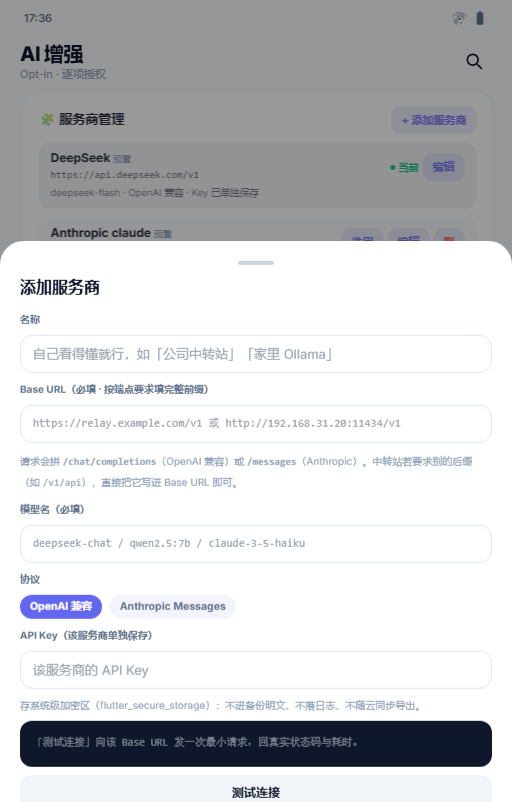
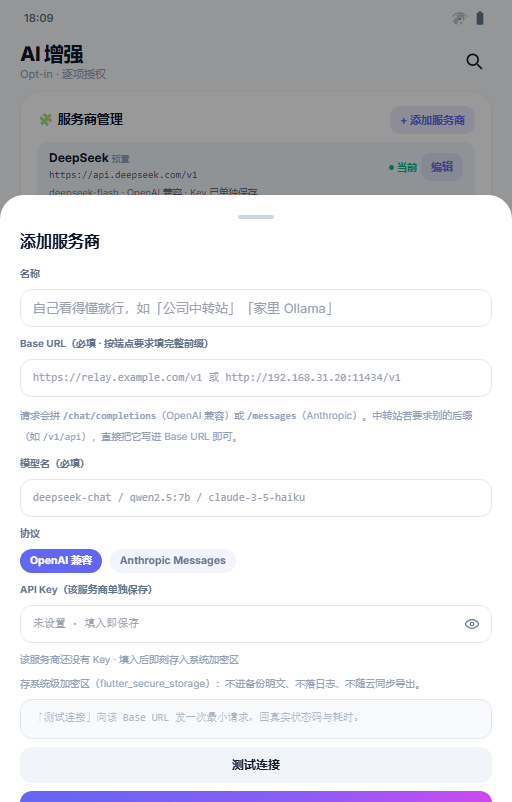
fix(proto): V1.53.1 服务商表单 Key 默认掩码+眼睛切明文、测试结果区改浅色描边框
真机截图反馈「黑色，是不是 ui 设计没处理，apikey 默认显示为***** 可以点击显示明文」。
- #apKey/#gkKey 改 password 型 + 线性 SVG 眼睛按钮切明文；编辑时掩码预填并显「已存 Key（末 4 位）」提示
- #apRes 深色面板换浅色描边框（失败红字与状态码在浅色页里才读得清）
- aiprovcheck.js 补 P12 断言（掩码/切明文往返/结果区非深色/提示文案），12/12 绿
- 需求清单 V1.53.1 补「表单细节口径」条目，交接文档登记「APK 缺 libsqlite3.so 不是缺陷」判据

diff --git a/prototype/index.html b/prototype/index.html
@@ -1443,7 +1443,11 @@ tailwind.config = {
       <div class="card mt-3">
         <div class="row-title">🔑 Key 配置</div>
         <div class="mt-2 space-y-2 text-xs">
-          <input class="inp w-full" type="password" placeholder="API Key · 当前服务商单独保存（sk-••••••••••••）" value="sk-demo-key">
+          <div class="relative">
+            <input id="gkKey" class="inp w-full pr-10 font-mono text-[11px]" type="password" value="sk-demo-key-3f2a">
+            <button id="gkEye" class="absolute right-1 top-1/2 -translate-y-1/2 w-8 h-8 flex items-center justify-center rounded-lg text-slate-500 active:bg-slate-100 dark:active:bg-slate-800" onclick="apPeek('gkKey','gkEye')" title="显示或隐藏明文" aria-label="显示或隐藏明文"></button>
+          </div>
+          <div class="text-[10px] text-slate-400">已存 Key 默认掩码显示，点右侧眼睛看明文；改端点或换 Key 请到「服务商管理」里编辑对应条目。</div>
           <div id="apCur" class="rounded-xl bg-slate-50 dark:bg-slate-800/60 px-3 py-2 text-[11px]">当前端点：<b>DeepSeek</b></div>
           <div class="flex gap-2"><button class="mini-btn flex-1" onclick="aiProvEdit(aiCurProv().id)">编辑当前服务商</button><button class="mini-btn flex-1" onclick="aiProvEdit(null)">+ 新服务商</button></div>
           <div class="text-[10px] text-slate-400 leading-5">Key 存系统级加密区（flutter_secure_storage）：不入备份明文、不落日志、不随 WebDAV 同步。</div>
@@ -1887,13 +1891,17 @@ tailwind.config = {
           <button class="auf" data-p="anthropic" onclick="aiProtoSet('anthropic')">Anthropic Messages</button>
         </div>
         <div class="text-[10px] font-bold text-slate-500 mt-2">API Key（该服务商单独保存）</div>
-        <input id="apKey" class="inp w-full" type="password" placeholder="留空=不修改已存的 Key">
+        <div class="relative">
+          <input id="apKey" class="inp w-full pr-10 font-mono text-[11px]" type="password" placeholder="未设置 · 填入即保存">
+          <button id="apEye" class="absolute right-1 top-1/2 -translate-y-1/2 w-8 h-8 flex items-center justify-center rounded-lg text-slate-500 active:bg-slate-100 dark:active:bg-slate-800" onclick="apPeek('apKey','apEye')" title="显示或隐藏明文" aria-label="显示或隐藏明文"></button>
+        </div>
+        <div id="apKeyHint" class="text-[10px] text-slate-400 mt-1 leading-4"></div>
         <div class="text-[10px] text-slate-400">存系统级加密区（flutter_secure_storage）：不进备份明文、不落日志、不随云同步导出。</div>
         <div id="apHttpRow" class="hidden flex items-center justify-between rounded-xl bg-amber-50 dark:bg-amber-500/10 border border-amber-200 dark:border-amber-500/30 px-3 py-2">
           <span class="text-[10.5px] leading-4">地址是 <b>http 明文</b>：仅建议局域网/回环端点，公网请用 https</span>
           <span id="apHttpOk" class="toggle" onclick="tgl(this)"></span>
         </div>
-        <div id="apRes" class="mt-1 rounded-xl bg-slate-900 text-slate-200 p-3 min-h-[46px] text-[10.5px] font-mono leading-5 break-all"></div>
+        <div id="apRes" class="mt-1 rounded-xl border border-slate-200 dark:border-slate-700 bg-slate-50 dark:bg-slate-800/50 px-3 py-2 min-h-[40px] text-[10.5px] font-mono leading-5 break-all text-slate-500 dark:text-slate-400"></div>
         <div class="flex gap-2 mt-3">
           <button onclick="aiProvPing()" class="flex-1 py-2.5 rounded-xl bg-slate-100 dark:bg-slate-800 text-xs font-bold">测试连接</button>
           <button id="apDelBtn" onclick="aiProvDel(apEdit)" class="px-4 py-2.5 rounded-xl text-white text-xs font-bold hidden" style="background:#ef4444">删除</button>
@@ -4272,6 +4280,7 @@ function aiProvRender(){
  var c=aiCurProv();
  var cur=$('#apCur');
  if(cur)cur.innerHTML='当前端点：<b>'+c.n+'</b> · <span class="font-mono text-[10px]">'+c.u+'</span> · '+c.m;
+ ['gkEye','apEye'].forEach(function(id){var b=document.getElementById(id);if(b&&!b.innerHTML)b.innerHTML=AP_EYE;});
 }
 function aiProvUse(id){aiProvs().forEach(function(p){p.cur=p.id===id;});aiProvRender();
  toast('已切换到「'+aiProvById(id).n+'」· 后续 AI 请求走该端点与其 Key');}
@@ -4279,13 +4288,23 @@ function aiProvEdit(id){apEdit=id;
  var p=id?aiProvById(id):null;
  $('#apTitle').textContent=p?('编辑服务商 · '+p.n):'添加服务商';
  $('#apName').value=p?p.n:'';$('#apUrl').value=p?p.u:'';$('#apModel').value=p?p.m:'';
- $('#apKey').value='';$('#apKey').placeholder=(p&&p.k)?'已存于加密区（留空则不改）':'该服务商的 API Key';
+ var stored=apKeyStored(p);
+ $('#apKey').type='password';$('#apKey').value=stored;$('#apEye').innerHTML=AP_EYE;
+ $('#apKeyHint').textContent=stored?('已存 Key（末 4 位 '+stored.slice(-4)+'）· 覆盖即改，清空后保存＝删除该 Key')
+   :'该服务商还没有 Key · 填入后即刻存入系统加密区';
  aiProtoSet(p?p.p:'openai');apHintCheck();
  $('#apDelBtn').classList.toggle('hidden',!p||p===aiCurProv());
  $('#apRes').innerHTML='<span class="opacity-50">「测试连接」向该 Base URL 发一次最小请求，回真实状态码与耗时。</span>';
  openSheet('sheetAiProv');}
 function aiProtoSet(v){$$('#apProto .auf').forEach(function(b){b.classList.toggle('on',b.dataset.p===v);});}
 function apHintCheck(){var row=$('#apHttpRow');if(row)row.classList.toggle('hidden',$('#apUrl').value.trim().indexOf('http://')!==0);}
+/* Key 明文显隐（默认掩码）：线性 SVG 眼睛，禁 emoji（全局 UI 规则） */
+const AP_EYE='<svg class="w-4 h-4" fill="none" stroke="currentColor" stroke-width="1.8" viewBox="0 0 24 24"><path stroke-linecap="round" d="M2 12s3.6-6.5 10-6.5S22 12 22 12s-3.6 6.5-10 6.5S2 12 2 12z"/><circle cx="12" cy="12" r="2.6"/></svg>';
+const AP_EYE_OFF='<svg class="w-4 h-4" fill="none" stroke="currentColor" stroke-width="1.8" viewBox="0 0 24 24"><path stroke-linecap="round" d="M3 3l18 18M10.5 5.8A11 11 0 0112 5.5c6.4 0 10 6.5 10 6.5a17.5 17.5 0 01-3.1 3.9M6.3 8A16.7 16.7 0 002 12s3.6 6.5 10 6.5a10.4 10.4 0 003.7-.7"/></svg>';
+function apPeek(inpId,btnId){var el=document.getElementById(inpId),b=document.getElementById(btnId);
+  var show=el.type==='password';el.type=show?'text':'password';
+  b.innerHTML=show?AP_EYE_OFF:AP_EYE;}
+function apKeyStored(p){return p&&p.k?('sk-demo-'+p.id.slice(-4)+'f2a'):'';}
 function aiProvProto(){var on=$$('#apProto .auf.on')[0];return on?on.dataset.p:'openai';}
 function aiProvSave(){
  var n=$('#apName').value.trim(),u=$('#apUrl').value.trim().replace(/\/+$/,''),m=$('#apModel').value.trim(),k=$('#apKey').value.trim();
@@ -4294,7 +4313,7 @@ function aiProvSave(){
  if(!m){toast('✕ 请填写模型名');return}
  if(u.indexOf('http://')===0&&!$('#apHttpOk').classList.contains('on')){toast('✕ http 明文端点需先确认是局域网/回环地址');return}
  var ps=aiProvs(),p=apEdit?aiProvById(apEdit):null;
- if(p){p.n=n;p.u=u;p.m=m;p.p=aiProvProto();if(k)p.k=1;}
+ if(p){p.n=n;p.u=u;p.m=m;p.p=aiProvProto();p.k=k?1:0;}
  else{var id='p'+Date.now();ps.push({id:id,n:n,u:u,m:m,p:aiProvProto(),k:k?1:0,b:0,cur:false});aiProvUse(id);}
  closeSheet('sheetAiProv');apEdit=null;aiProvRender();toast('✔ 已保存 · 端点即刻生效（业务模块无需任何改动）');}
 function aiProvDel(id){var btn=(typeof event!=='undefined'&&event)?event.target:null;

diff --git a/tools/aiprovcheck.js b/tools/aiprovcheck.js
@@ -85,12 +85,29 @@ const ROWS = "[].map.call(document.querySelectorAll('#aiProvList > div'),functio
 
   /* P5 编辑既有项：预填 + 改模型生效 + 条数不变（deepseek 此时已非当前项 → 允许删） */
   const p5 = await ev(`var n0=AI_PROVS.length;aiProvEdit('deepseek');
-    var pre={u:$('#apUrl').value,m:$('#apModel').value,k:/留空则不改/.test($('#apKey').placeholder),del:!document.getElementById('apDelBtn').classList.contains('hidden')};
+    var pre={u:$('#apUrl').value,m:$('#apModel').value,k:($('#apKey').type==='password'&&$('#apKey').value.length>6),del:!document.getElementById('apDelBtn').classList.contains('hidden')};
     $('#apModel').value='deepseek-reasoner';aiProvSave();
     var p=aiProvById('deepseek');
     return {same:AI_PROVS.length===n0,pre:pre,model:p.m};`);
   (p5.same && p5.pre.u.indexOf('api.deepseek.com') > 0 && p5.pre.k && p5.pre.del && p5.model === 'deepseek-reasoner')
-    ? ok('P5 编辑预填（Key 留空=不改 · 非当前项才给删钮）· 改模型即刻生效', JSON.stringify(p5)) : bad('P5', JSON.stringify(p5));
+    ? ok('P5 编辑预填（Key 预填为掩码态 · 非当前项才给删钮）· 改模型即刻生效', JSON.stringify(p5)) : bad('P5', JSON.stringify(p5));
+
+  /* P12 Key 掩码显隐 + 结果区不再是深色面板（用户反馈两处） */
+  const p12 = await ev(`aiProvEdit('deepseek');
+    var masked=$('#apKey').type==='password'&&$('#apKey').value.length>6;
+    var eyeIcon=!!document.querySelector('#apEye svg');
+    apPeek('apKey','apEye');var shown=$('#apKey').type==='text';
+    apPeek('apKey','apEye');var back=$('#apKey').type==='password';
+    var resBg=getComputedStyle(document.getElementById('apRes')).backgroundColor;
+    var hint=$('#apKeyHint').textContent.slice(0,7);
+    var gk=$('#gkKey')?$('#gkKey').type:'-';
+    closeSheet('sheetAiProv');
+    return {masked:masked,eyeIcon:eyeIcon,shown:shown,back:back,resBg:resBg,hint:hint,gk:gk};`);
+  (p12.masked && p12.eyeIcon && p12.shown && p12.back && p12.resBg.indexOf('15, 23, 42') < 0 && /已存 Key/.test(p12.hint) && p12.gk === 'password')
+    ? ok('P12 Key 默认掩码 · 点眼睛切明文再点回掩码 · 结果区改浅色描边框', JSON.stringify(p12)) : bad('P12', JSON.stringify(p12));
+  await ev(`aiProvEdit('deepseek');return 1;`); await wait(200);
+  await shot('aip-form-edit');
+  await ev(`closeSheet('sheetAiProv');return 1;`);
 
   /* P6 切换当前：原当前项露出「选用」，新当前项显 ● 当前 且无删除钮 */
   const p6 = await ev(`aiProvUse('relay');var r=${ROWS};

diff --git a/docs/交接文档.md b/docs/交接文档.md
@@ -232,6 +232,7 @@ lifeHarness/
   3. 构建/测试与 adb 并行时注意 sqlite3.dll 文件锁互踩，flutter 命令串行执行。
 - ⚠ **Gitee release 附件核对口径（2026-09-28 V1.52 收口实测，替代计划书 §7.1 第 5 步的 grep 写法）**：`attach_files` 返回 201 只代表上传成功，**核对必须走列表接口**——`GET /releases/{numericId}` 的 `attachments` 恒为空、`GET /releases?per_page=100` 里附件字段叫 `assets`（且**含两个自动源包** `.zip/.tar.gz`，三包齐 = 资产 5 个）。一把梭脚本＝`node tools/check_gitee_assets.js <tag>`（缺包非 0 退出）；收口全流程见 `tools/release_v152.sh`（已按「Gitee 优先 → 核对 → GitHub → 核对」重排，可直接改 TAG/TITLE/BODY_FILE 复用）。
 - ⚠ **AI 接入门（架构守护 R7 · 2026-09-28 V1.53 定案，接任何 AI 能力前先读）**：全应用调用 AI **只许** `core/ai/ai_review.dart` 的 `aiRunWithReview(context, ref, {taskId, vars})`；`lib/features/**` 里出现 `aiServiceProvider` / `AiService(` / `AiClient(` / `.request(` 即测试红（唯一例外＝AI 增强页自身做配置与连通性验证）。**模块不感知**端点/模型/协议/Key/门控/审阅/留痕/`ai_calls` 使用记录——新增能力＝`assets/ai_prompts/prompts.json` 加一条 + 模块侧一行调用，零注册零建表。规范全文见《需求清单》§六 原则 8；自查 `grep -rn "aiServiceProvider\|\.request(" lib/features --include=*.dart`。**待整改（已进 R7 棘轮豁免，整改完必须删登记）**：`features/read/presentation/reader_page.dart` 直取 `aiServiceProvider.request('read.quote_insight')` 绕开了审阅与全部留痕，属阅读会话文件，移交其改为 `aiRunWithReview`（或按 V1.53 讨论把落库下沉到 `AiService.request` 出口兜底）。
+- ⚠ **APK 里没有 `libsqlite3.so` 不是缺陷（2026-09-28 澄清，别去"修"它）**：本工程运行时用 `sqflite`（Android 侧走框架 `android.database.sqlite`），`package:sqlite3` 在 `lib/` 里 0 引用，`sqflite_common_ffi` 只在 `test/` 用；APK 中那个 .so 只是 dart 构建钩子的编译期产物（arm64 包顺带带了 1.8MB，v7a/x86_64 没带也完全不影响开库）。判据两条：`grep -rn "package:sqlite3" lib/` 是否为空、运行时依赖是 `sqflite` 还是 `drift/sqlite3`——只有后者（drift/sqlite3 FFI 直开）缺库才会真崩。发包核对仍以「versionName/versionCode 对 pubspec + release 清单含 INTERNET 权限」为准（见 `release_v152.sh` 与 [[flutter-release-version-order]] 同类经验）。
 - 原型 CDN（Tailwind、Google Fonts）需联网首次加载；离线打开时样式可能缺失，属正常（仅演示环境依赖）。若需完全离线，可后续将 CDN 资源本地内联。
 - 原型面向手机竖屏；桌面浏览器居中展示于手机外框内（`md:` 断点）。
 - 需求已冻结，任何新想法**先记入本文件第 7 节「待排期池」**，不直接改动当前版本范围。
